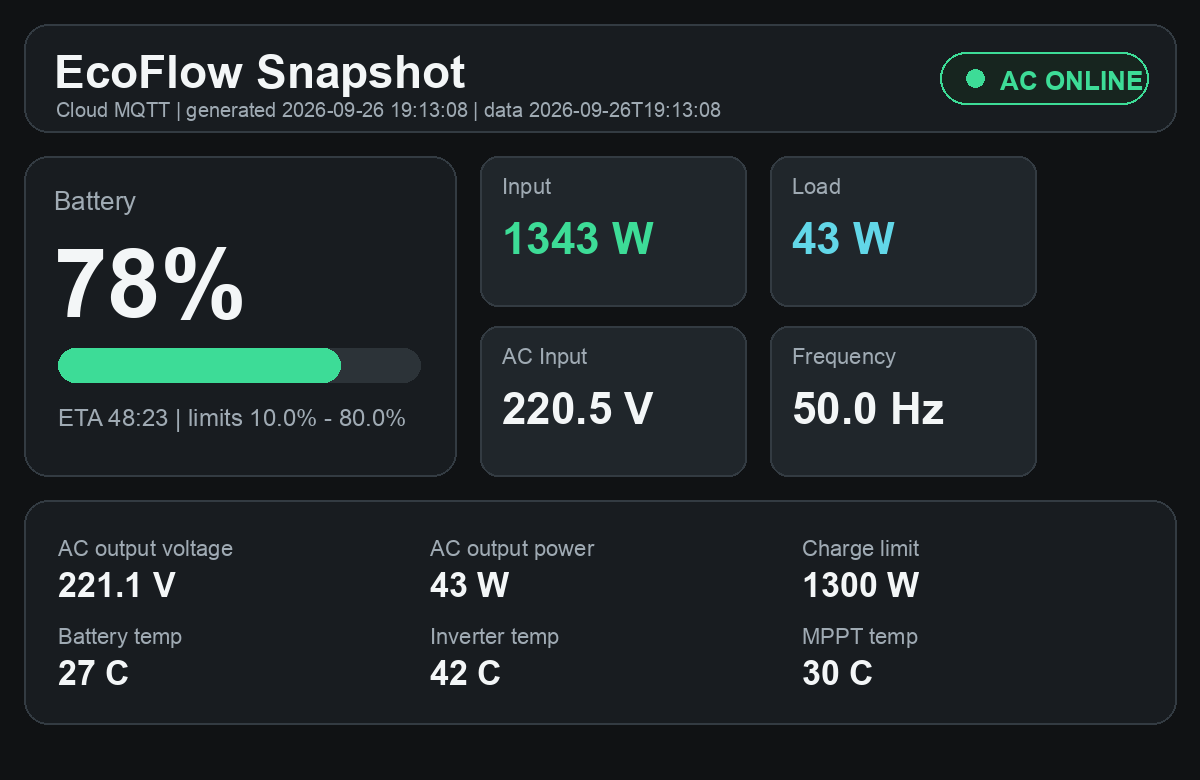
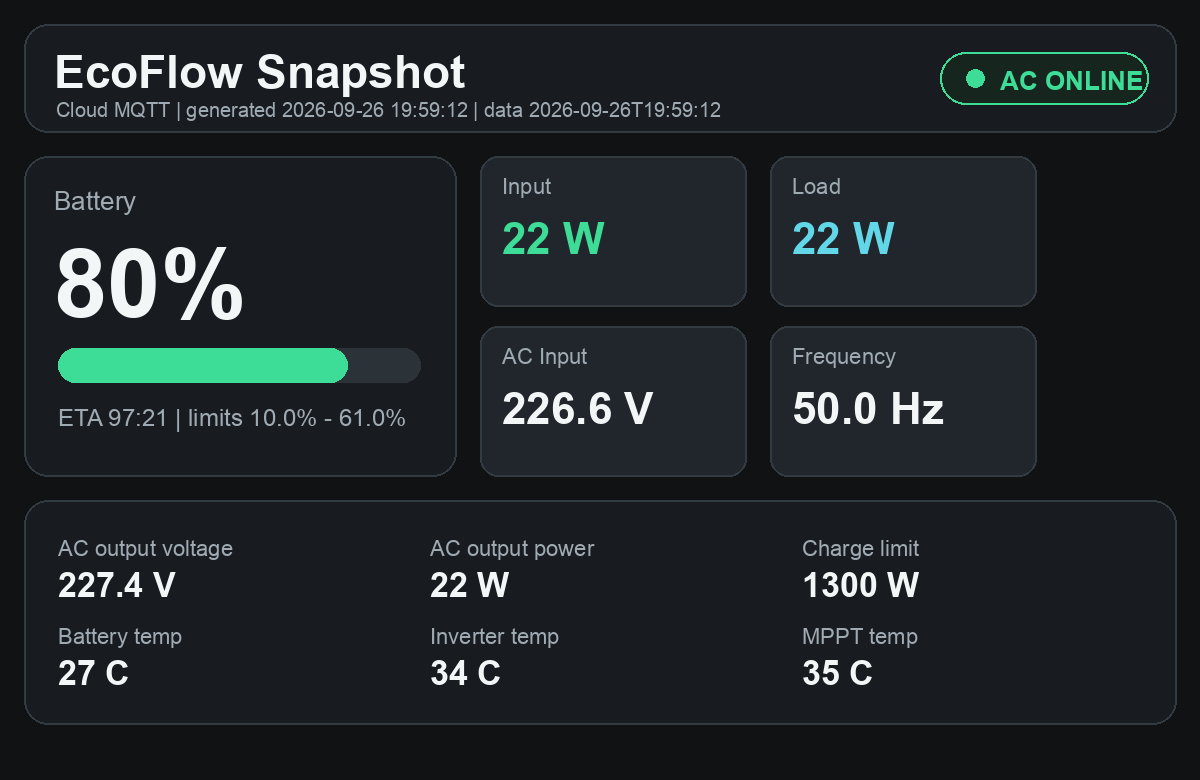
Update EcoFlow dashboard 2026-09-26 19:59:12

diff --git a/index.html b/index.html
@@ -75,7 +75,7 @@
       overflow: hidden;
       margin-top: 14px;
     }
-    .fill { width: 78%; height: 100%; background: linear-gradient(90deg, var(--green), var(--cyan)); }
+    .fill { width: 80%; height: 100%; background: linear-gradient(90deg, var(--green), var(--cyan)); }
     .cards {
       display: grid;
       grid-template-columns: repeat(4, minmax(0, 1fr));
@@ -177,7 +177,7 @@
   <header>
     <div>
       <h1>EcoFlow Snapshot</h1>
-      <div class="sub">Cloud MQTT · generated 2026-09-26T19:13:08 · data 2026-09-26T19:13:08</div>
+      <div class="sub">Cloud MQTT · generated 2026-09-26T19:59:12 · data 2026-09-26T19:59:12</div>
     </div>
     <div class="status online"><span class="dot"></span><span>AC online</span></div>
   </header>
@@ -187,38 +187,38 @@
   <div class="grid">
     <section>
       <h2>Battery</h2>
-      <div class="value">78%</div>
+      <div class="value">80%</div>
       <div class="battery"><div class="fill"></div></div>
-      <div class="row"><span>ETA</span><span>48:23</span></div>
-      <div class="row"><span>SOC limits</span><span>10.0% - 80.0%</span></div>
+      <div class="row"><span>ETA</span><span>97:21</span></div>
+      <div class="row"><span>SOC limits</span><span>10.0% - 61.0%</span></div>
     </section>
     <section>
       <h2>AC</h2>
-      <div class="row"><span>Input voltage</span><span>220.5 V</span></div>
+      <div class="row"><span>Input voltage</span><span>226.6 V</span></div>
       <div class="row"><span>Input frequency</span><span>50.0 Hz</span></div>
-      <div class="row"><span>Output voltage</span><span>221.1 V</span></div>
+      <div class="row"><span>Output voltage</span><span>227.4 V</span></div>
     </section>
   </div>
 
   <div class="cards">
-    <div class="card"><span class="label">Input</span><span class="value">1343 W</span></div>
-    <div class="card"><span class="label">Load</span><span class="value">43 W</span></div>
+    <div class="card"><span class="label">Input</span><span class="value">22 W</span></div>
+    <div class="card"><span class="label">Load</span><span class="value">22 W</span></div>
     <div class="card"><span class="label">Battery temp</span><span class="value">27°C</span></div>
-    <div class="card"><span class="label">Inverter temp</span><span class="value">42°C</span></div>
+    <div class="card"><span class="label">Inverter temp</span><span class="value">34°C</span></div>
   </div>
 
   
     <section class="daily-card">
       <h2>Останні 24 години</h2>
       <div class="daily-grid">
-        <div class="daily-item"><span class="label">Напруга min / max</span><strong>217 V / 230 V</strong><small>26.09 12:52 / 25.09 19:48</small></div>
+        <div class="daily-item"><span class="label">Напруга min / max</span><strong>217 V / 229 V</strong><small>26.09 12:52 / 26.09 07:02</small></div>
         <div class="daily-item"><span class="label">SOC min / max</span><strong>64% / 80%</strong><small>26.09 09:03 / 26.09 11:20</small></div>
         <div class="daily-item"><span class="label">Пік навантаження</span><strong>564 W</strong><small>26.09 14:08</small></div>
         <div class="daily-item"><span class="label">Зарядний ліміт</span><strong>1300 W</strong><small>пік входу 1343 W · 103% ліміту</small></div>
-        <div class="daily-item"><span class="label">Заряджання</span><strong>0 сек</strong><small>останнє 26.09 19:13</small></div>
+        <div class="daily-item"><span class="label">Заряджання</span><strong>3 хв</strong><small>останнє 26.09 19:13</small></div>
         <div class="daily-item"><span class="label">Розряджання</span><strong>0 сек</strong><small>--</small></div>
-        <div class="daily-item"><span class="label">Енергія вхід / вихід</span><strong>217 Wh / 217 Wh</strong><small>оцінка за sample-ами</small></div>
-        <div class="daily-item"><span class="label">Частота min / max</span><strong>50.0 Hz / 50.0 Hz</strong><small>25.09 19:48 / 25.09 19:48</small></div>
+        <div class="daily-item"><span class="label">Енергія вхід / вихід</span><strong>283 Wh / 218 Wh</strong><small>оцінка за sample-ами</small></div>
+        <div class="daily-item"><span class="label">Частота min / max</span><strong>50.0 Hz / 50.0 Hz</strong><small>25.09 20:33 / 25.09 20:33</small></div>
       </div>
     </section>
     
@@ -241,29 +241,29 @@
   &quot;ok&quot;: true,
   &quot;source&quot;: &quot;Cloud MQTT&quot;,
   &quot;device&quot;: &quot;DELTA Pro&quot;,
-  &quot;timestamp&quot;: &quot;2026-09-26T19:13:08&quot;,
+  &quot;timestamp&quot;: &quot;2026-09-26T19:59:12&quot;,
   &quot;grid&quot;: true,
   &quot;battery&quot;: {
-    &quot;soc&quot;: 78,
+    &quot;soc&quot;: 80,
     &quot;min&quot;: 10.0,
-    &quot;max&quot;: 80.0,
-    &quot;eta&quot;: &quot;48:23&quot;
+    &quot;max&quot;: 61.0,
+    &quot;eta&quot;: &quot;97:21&quot;
   },
   &quot;power&quot;: {
-    &quot;in&quot;: 1343,
-    &quot;out&quot;: 43,
-    &quot;acOut&quot;: 43,
+    &quot;in&quot;: 22,
+    &quot;out&quot;: 22,
+    &quot;acOut&quot;: 22,
     &quot;chargeLimit&quot;: 1300
   },
   &quot;ac&quot;: {
-    &quot;inputVoltage&quot;: 220.536,
+    &quot;inputVoltage&quot;: 226.595,
     &quot;inputFreq&quot;: 50.0,
-    &quot;outputVoltage&quot;: 221.115
+    &quot;outputVoltage&quot;: 227.396
   },
   &quot;temps&quot;: {
     &quot;battery&quot;: 27,
-    &quot;inverter&quot;: 42,
-    &quot;mppt&quot;: 30
+    &quot;inverter&quot;: 34,
+    &quot;mppt&quot;: 35
   },
   &quot;history&quot;: [
     {
@@ -308,15 +308,15 @@
   &quot;telemetry&quot;: {
     &quot;window&quot;: &quot;24h&quot;,
     &quot;sample_count&quot;: 32,
-    &quot;from&quot;: &quot;2026-09-25T19:48:03&quot;,
-    &quot;to&quot;: &quot;2026-09-26T19:13:08&quot;,
+    &quot;from&quot;: &quot;2026-09-25T20:33:38&quot;,
+    &quot;to&quot;: &quot;2026-09-26T19:59:12&quot;,
     &quot;latest&quot;: {
-      &quot;mode&quot;: &quot;charging&quot;,
+      &quot;mode&quot;: &quot;idle&quot;,
       &quot;grid&quot;: true,
-      &quot;soc&quot;: 78.0,
-      &quot;ac_v&quot;: 220.536,
-      &quot;in_w&quot;: 1343.0,
-      &quot;out_w&quot;: 43.0,
+      &quot;soc&quot;: 80.0,
+      &quot;ac_v&quot;: 226.595,
+      &quot;in_w&quot;: 22.0,
+      &quot;out_w&quot;: 22.0,
       &quot;charge_limit_w&quot;: 1300.0
     },
     &quot;voltage&quot;: {
@@ -325,16 +325,16 @@
         &quot;ts&quot;: &quot;2026-09-26T12:52:09&quot;
       },
       &quot;max&quot;: {
-        &quot;value&quot;: 229.8,
-        &quot;ts&quot;: &quot;2026-09-25T19:48:03&quot;
+        &quot;value&quot;: 228.7,
+        &quot;ts&quot;: &quot;2026-09-26T07:02:38&quot;
       },
       &quot;frequency_min&quot;: {
         &quot;value&quot;: 50.0,
-        &quot;ts&quot;: &quot;2026-09-25T19:48:03&quot;
+        &quot;ts&quot;: &quot;2026-09-25T20:33:38&quot;
       },
       &quot;frequency_max&quot;: {
         &quot;value&quot;: 50.0,
-        &quot;ts&quot;: &quot;2026-09-25T19:48:03&quot;
+        &quot;ts&quot;: &quot;2026-09-25T20:33:38&quot;
       }
     },
     &quot;soc&quot;: {
@@ -362,16 +362,16 @@
       },
       &quot;charge_limit_w&quot;: 1300.0,
       &quot;max_input_pct_of_current_limit&quot;: 103,
-      &quot;input_wh_est&quot;: 217.2,
-      &quot;load_wh_est&quot;: 217.2
+      &quot;input_wh_est&quot;: 283.2,
+      &quot;load_wh_est&quot;: 218.2
     },
     &quot;modes&quot;: {
-      &quot;charging_sec&quot;: 0,
+      &quot;charging_sec&quot;: 180,
       &quot;discharging_sec&quot;: 0,
-      &quot;idle_sec&quot;: 5580,
-      &quot;charging&quot;: &quot;0 сек&quot;,
+      &quot;idle_sec&quot;: 5400,
+      &quot;charging&quot;: &quot;3 хв&quot;,
       &quot;discharging&quot;: &quot;0 сек&quot;,
-      &quot;idle&quot;: &quot;1 год 33 хв&quot;,
+      &quot;idle&quot;: &quot;1 год 30 хв&quot;,
       &quot;last_charging&quot;: {
         &quot;ts&quot;: &quot;2026-09-26T19:13:08&quot;,
         &quot;grid&quot;: true,
